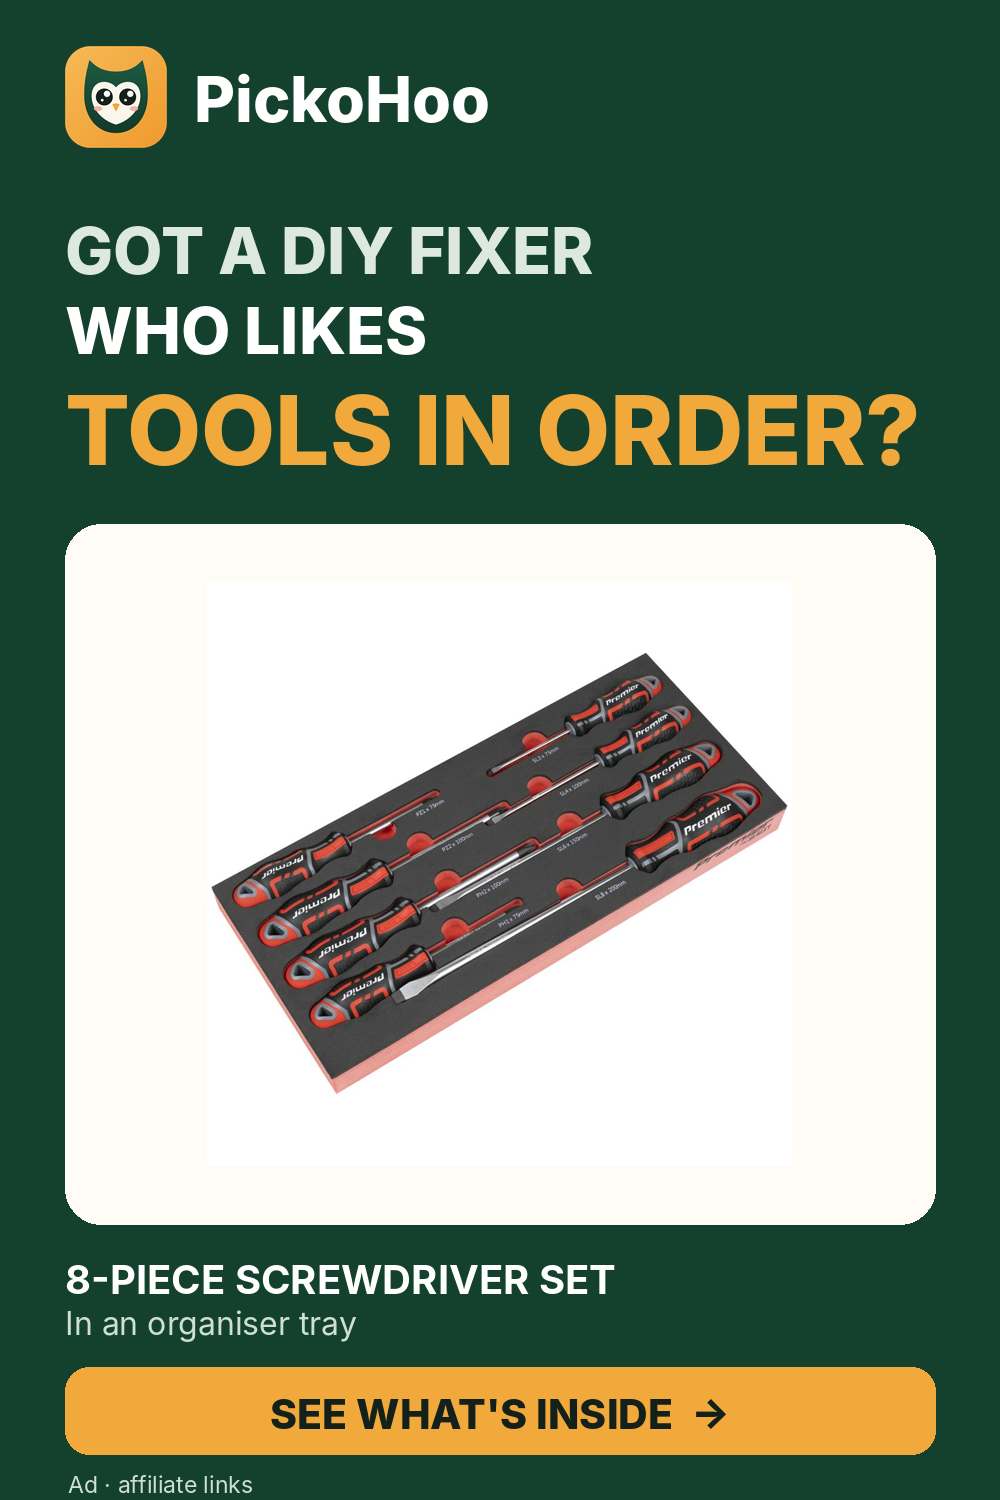
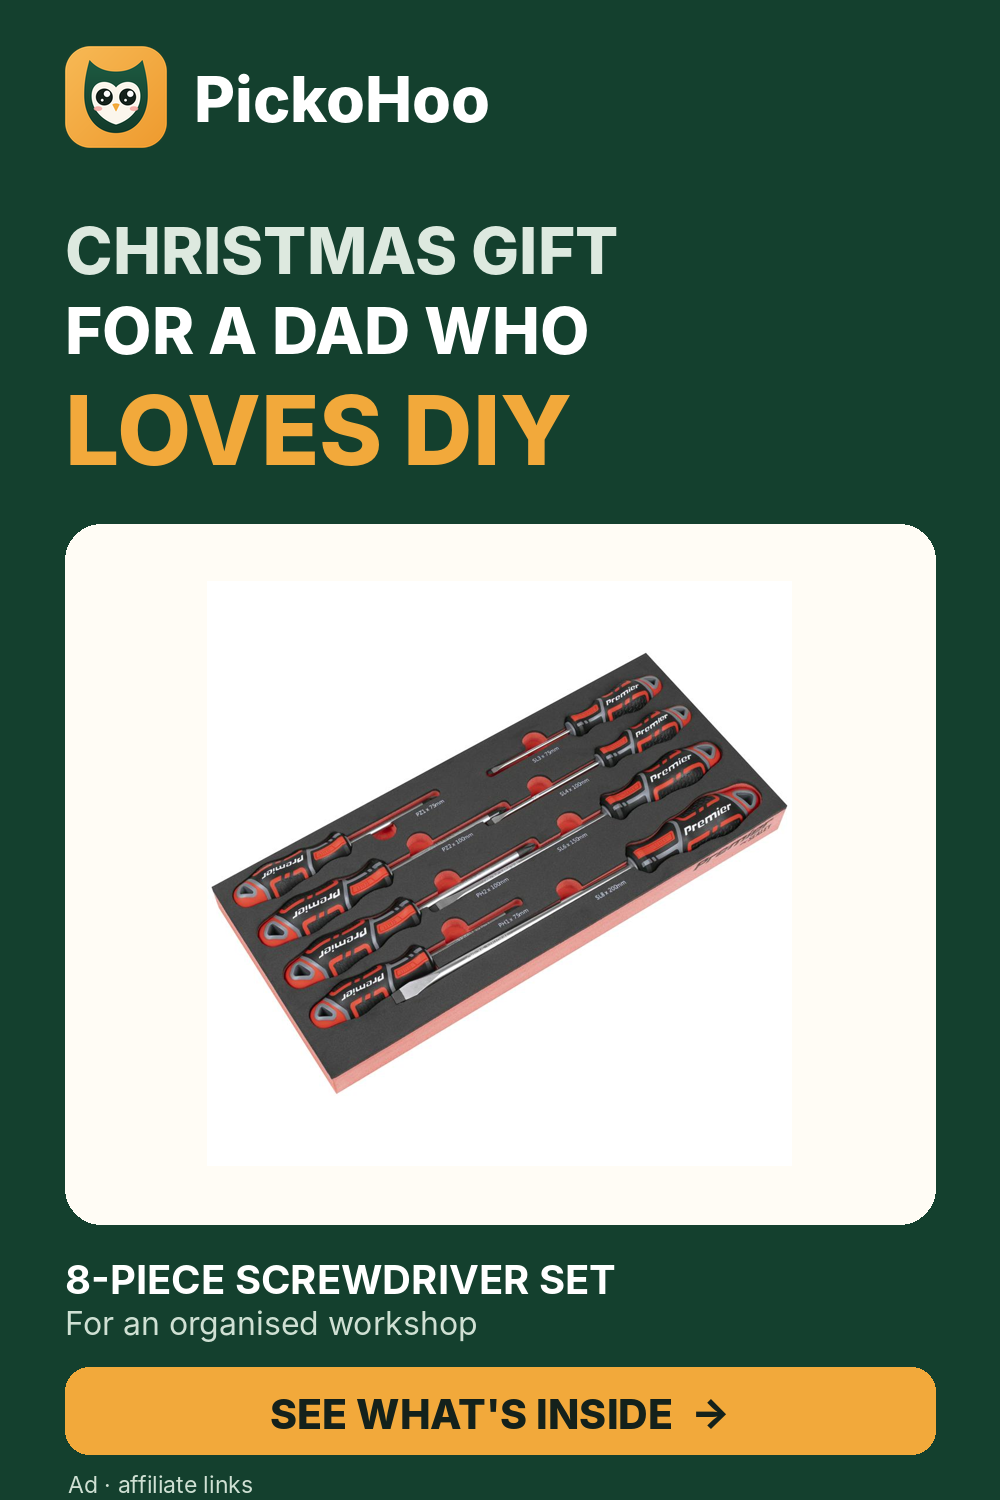
daily picks 2026-11-22

Changed region(s): [[0.062, 0.1533, 0.93, 0.3373], [0.062, 0.8587, 0.465, 0.8893]]

diff --git a/review/diy-screwdriver-set-sealey-premier.html b/review/diy-screwdriver-set-sealey-premier.html
@@ -1,9 +1,9 @@
 <!doctype html><html lang="en-GB"><head><meta charset="utf-8">
 <meta name="viewport" content="width=device-width,initial-scale=1">
-<title>Organised workshop gift | Sealey 8-piece screwdriver set | PickoHoo</title><meta name="description" content="For the DIY fixer who likes an organised tool drawer: 8 Sealey Premier screwdrivers in a modular tray. Check fit, contents, delivery and current retailer price. Ad · affiliate links.">
+<title>Christmas gift for dad who loves DIY | 8 screwdrivers | PickoHoo</title><meta name="description" content="Christmas gift ideas for a dad who loves DIY? This Sealey 8-piece screwdriver set comes in an organiser tray. Check sizes, tray fit and current delivery. Ad · affiliate links.">
 <link rel="canonical" href="https://pickohoo.github.io/diy-screwdriver-set-sealey-premier.html">
-<meta property="og:title" content="Organised workshop gift | Sealey 8-piece screwdriver set | PickoHoo">
-<meta property="og:description" content="For the DIY fixer who likes an organised tool drawer: 8 Sealey Premier screwdrivers in a modular tray. Check fit, contents, delivery and current retailer price. Ad · affiliate links."><meta property="og:image" content="https://www.tooled-up.com/artwork/prodzoom/sealey_TBT53_DFC1929461.jpg">
+<meta property="og:title" content="Christmas gift for dad who loves DIY | 8 screwdrivers | PickoHoo">
+<meta property="og:description" content="Christmas gift ideas for a dad who loves DIY? This Sealey 8-piece screwdriver set comes in an organiser tray. Check sizes, tray fit and current delivery. Ad · affiliate links."><meta property="og:image" content="https://www.tooled-up.com/artwork/prodzoom/sealey_TBT53_DFC1929461.jpg">
 <link rel="icon" href="/pickora-icon.svg" type="image/svg+xml">
 <style>
 :root{--green:#14402e;--paper:#f5f3ee;--ink:#14211b;--muted:#5a6960}
@@ -19,7 +19,7 @@ small,.fine{color:var(--muted);font-size:13px}.price{font-weight:850;color:var(-
 @media(max-width:700px){.product{grid-template-columns:1fr}}
 </style><meta name="robots" content="noindex,nofollow"></head><body><header><a href="/" aria-label="PickoHoo home"><img src="/pickora-logo.png" alt="PickoHoo official logo"></a></header>
 <main><div class="panel"><strong>Editorial draft for owner review. Not an approved public campaign.</strong></div><div class="panel"><div class="product"><div><img src="https://www.tooled-up.com/artwork/prodzoom/sealey_TBT53_DFC1929461.jpg" alt="Sealey Premier 8 Piece Screwdriver Set in Module Tray"></div><div>
-<div class="mark">Picko's Find #002 · Ad</div><h1>A practical screwdriver set for an organised workshop</h1><p class="lede">Sealey Premier 8 Piece Screwdriver Set in Module Tray</p>
+<div class="mark">Picko's Find #002 · Ad</div><h1>A practical Christmas gift for a dad who loves DIY</h1><p class="lede">Sealey Premier 8 Piece Screwdriver Set in Module Tray</p>
 <p>Eight screwdrivers covering slotted, Phillips and Pozi screws, supplied in a modular tool-storage tray. Useful for someone building a more organised workshop rather than a complete all-purpose tool kit.</p><p class="price">£26.95</p>
 <p class="fine">Affiliate-feed snapshot: 2026-11-22 05:19 UTC. Confirm live stock, delivery and final price at the retailer. Not a price reduction claim.</p>
 <span class="btn" role="note">EDITORIAL PREVIEW · PURCHASE LINK DISABLED</span>

diff --git a/review/woodworking-gift-sirius-carpentry-tool-kit.html b/review/woodworking-gift-sirius-carpentry-tool-kit.html
@@ -1,9 +1,9 @@
 <!doctype html><html lang="en-GB"><head><meta charset="utf-8">
 <meta name="viewport" content="width=device-width,initial-scale=1">
-<title>Woodworking gift idea | Four Sirius carpentry tools | PickoHoo</title><meta name="description" content="A woodworking gift idea with four traditional carpentry tools in a wooden case. Check the included tools and current delivered price before buying. Ad · affiliate links.">
+<title>Christmas gift for a woodworking dad | Sirius 4-piece set | PickoHoo</title><meta name="description" content="Christmas gifts for a dad who loves woodworking? Four traditional carpentry tools in a wooden case. Check exact contents and the current retailer price. Ad · affiliate links.">
 <link rel="canonical" href="https://pickohoo.github.io/woodworking-gift-sirius-carpentry-tool-kit.html">
-<meta property="og:title" content="Woodworking gift idea | Four Sirius carpentry tools | PickoHoo">
-<meta property="og:description" content="A woodworking gift idea with four traditional carpentry tools in a wooden case. Check the included tools and current delivered price before buying. Ad · affiliate links."><meta property="og:image" content="https://www.tooled-up.com/artwork/prodzoom/SP-17176-Sirius-Carpentry-Tool-Kit-2.jpg">
+<meta property="og:title" content="Christmas gift for a woodworking dad | Sirius 4-piece set | PickoHoo">
+<meta property="og:description" content="Christmas gifts for a dad who loves woodworking? Four traditional carpentry tools in a wooden case. Check exact contents and the current retailer price. Ad · affiliate links."><meta property="og:image" content="https://www.tooled-up.com/artwork/prodzoom/SP-17176-Sirius-Carpentry-Tool-Kit-2.jpg">
 <link rel="icon" href="/pickora-icon.svg" type="image/svg+xml">
 <style>
 :root{--green:#14402e;--paper:#f5f3ee;--ink:#14211b;--muted:#5a6960}
@@ -19,7 +19,7 @@ small,.fine{color:var(--muted);font-size:13px}.price{font-weight:850;color:var(-
 @media(max-width:700px){.product{grid-template-columns:1fr}}
 </style><meta name="robots" content="noindex,nofollow"></head><body><header><a href="/" aria-label="PickoHoo home"><img src="/pickora-logo.png" alt="PickoHoo official logo"></a></header>
 <main><div class="panel"><strong>Editorial draft for owner review. Not an approved public campaign.</strong></div><div class="panel"><div class="product"><div><img src="https://www.tooled-up.com/artwork/prodzoom/SP-17176-Sirius-Carpentry-Tool-Kit-2.jpg" alt="Sirius 4 Piece Carpentry Wood Working Tool Kit"></div><div>
-<div class="mark">Picko's Find #003 · Ad</div><h1>Traditional carpentry tools for someone who loves woodworking</h1><p class="lede">Sirius 4 Piece Carpentry Wood Working Tool Kit</p>
+<div class="mark">Picko's Find #003 · Ad</div><h1>A Christmas gift idea for a dad who loves woodworking</h1><p class="lede">Sirius 4 Piece Carpentry Wood Working Tool Kit</p>
 <p>A four-tool Sirius woodworking kit presented in a wooden case. It includes a smoothing plane, try square, sliding bevel and a mortice/marking gauge, aimed at carpentry and workshop projects.</p><p class="price">£26.99</p>
 <p class="fine">Affiliate-feed snapshot: 2026-11-22 05:19 UTC. Confirm live stock, delivery and final price at the retailer. Not a price reduction claim.</p>
 <span class="btn" role="note">EDITORIAL PREVIEW · PURCHASE LINK DISABLED</span>

diff --git a/review/gardening-essentials-draper-three-piece-kit.html b/review/gardening-essentials-draper-three-piece-kit.html
@@ -1,9 +1,9 @@
 <!doctype html><html lang="en-GB"><head><meta charset="utf-8">
 <meta name="viewport" content="width=device-width,initial-scale=1">
-<title>Gardening essentials | Draper three-piece garden tool kit | PickoHoo</title><meta name="description" content="Exploring useful garden-tool gifts? This three-piece Draper kit is another option to compare with simpler two-piece sets. Check exact contents, current price and UK delivery. Ad · affiliate links.">
+<title>Christmas gift for dad who loves gardening | 3-piece kit | PickoHoo</title><meta name="description" content="Looking for a Christmas gift for a dad who enjoys his garden? Explore this three-piece Draper tool kit and check exact contents and UK delivery. Ad · affiliate links.">
 <link rel="canonical" href="https://pickohoo.github.io/gardening-essentials-draper-three-piece-kit.html">
-<meta property="og:title" content="Gardening essentials | Draper three-piece garden tool kit | PickoHoo">
-<meta property="og:description" content="Exploring useful garden-tool gifts? This three-piece Draper kit is another option to compare with simpler two-piece sets. Check exact contents, current price and UK delivery. Ad · affiliate links."><meta property="og:image" content="https://www.tooled-up.com/artwork/prodzoom/draper_28210_1.jpg">
+<meta property="og:title" content="Christmas gift for dad who loves gardening | 3-piece kit | PickoHoo">
+<meta property="og:description" content="Looking for a Christmas gift for a dad who enjoys his garden? Explore this three-piece Draper tool kit and check exact contents and UK delivery. Ad · affiliate links."><meta property="og:image" content="https://www.tooled-up.com/artwork/prodzoom/draper_28210_1.jpg">
 <link rel="icon" href="/pickora-icon.svg" type="image/svg+xml">
 <style>
 :root{--green:#14402e;--paper:#f5f3ee;--ink:#14211b;--muted:#5a6960}
@@ -19,7 +19,7 @@ small,.fine{color:var(--muted);font-size:13px}.price{font-weight:850;color:var(-
 @media(max-width:700px){.product{grid-template-columns:1fr}}
 </style><meta name="robots" content="noindex,nofollow"></head><body><header><a href="/" aria-label="PickoHoo home"><img src="/pickora-logo.png" alt="PickoHoo official logo"></a></header>
 <main><div class="panel"><strong>Editorial draft for owner review. Not an approved public campaign.</strong></div><div class="panel"><div class="product"><div><img src="https://www.tooled-up.com/artwork/prodzoom/draper_28210_1.jpg" alt="Draper 3 Piece Garden Tool Kit"></div><div>
-<div class="mark">Picko's Find #004 · Ad</div><h1>A practical three-piece gardening tool kit</h1><p class="lede">Draper 3 Piece Garden Tool Kit</p>
+<div class="mark">Picko's Find #004 · Ad</div><h1>A Christmas gift idea for a dad who loves gardening</h1><p class="lede">Draper 3 Piece Garden Tool Kit</p>
 <p>A three-piece Draper gardening tool kit for someone who spends time on planting and garden maintenance. It is a different product from our two-piece Faithfull presentation-box gift.</p><p class="price">£27.95</p>
 <p class="fine">Affiliate-feed snapshot: 2026-11-22 05:19 UTC. Confirm live stock, delivery and final price at the retailer. Not a price reduction claim.</p>
 <span class="btn" role="note">EDITORIAL PREVIEW · PURCHASE LINK DISABLED</span>
